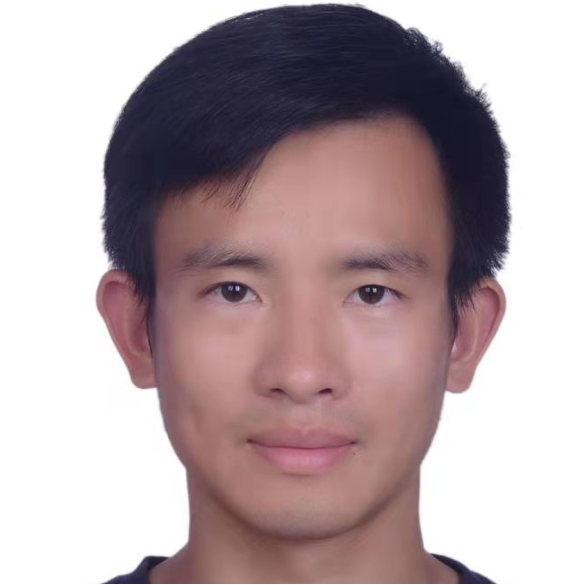
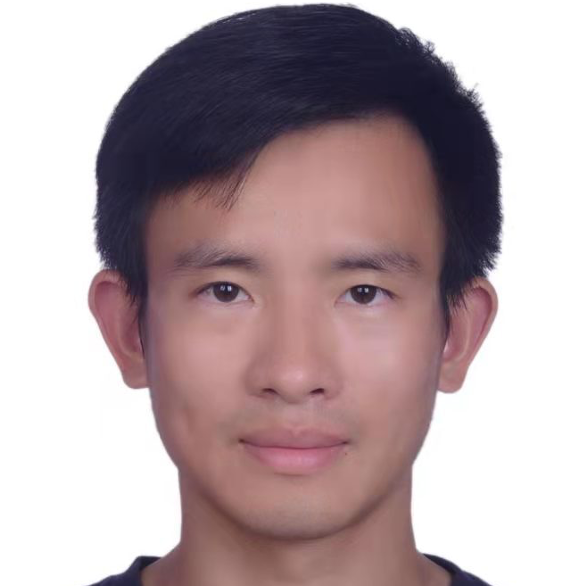
adding missing picture

diff --git a/Committee/index.html b/Committee/index.html
@@ -73,7 +73,7 @@
                 class="card shadow-sm mb-4 d-flex justify-content-center align-self-center"
               >
                 <img
-                  src="../assets/images/committee/hankz.png"
+                  src="../assets/images/committee/hankz.jpeg"
                   class="card-img-top"
                 />
                 <div class="card-body bg-light">
